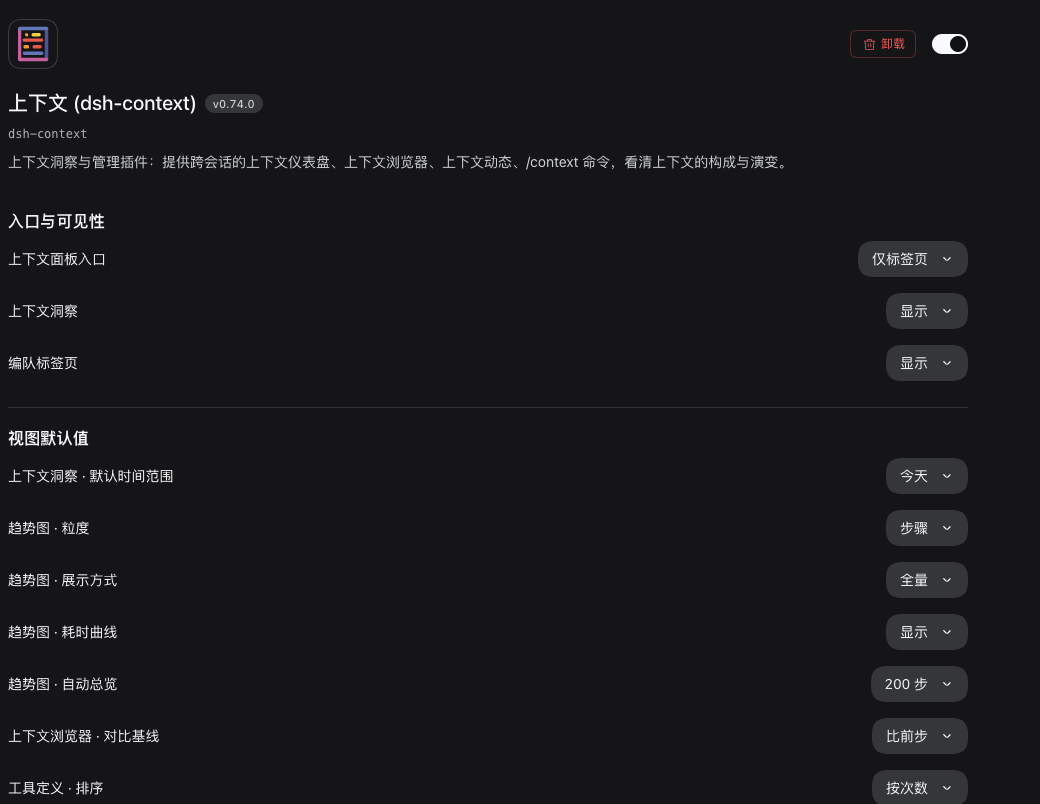
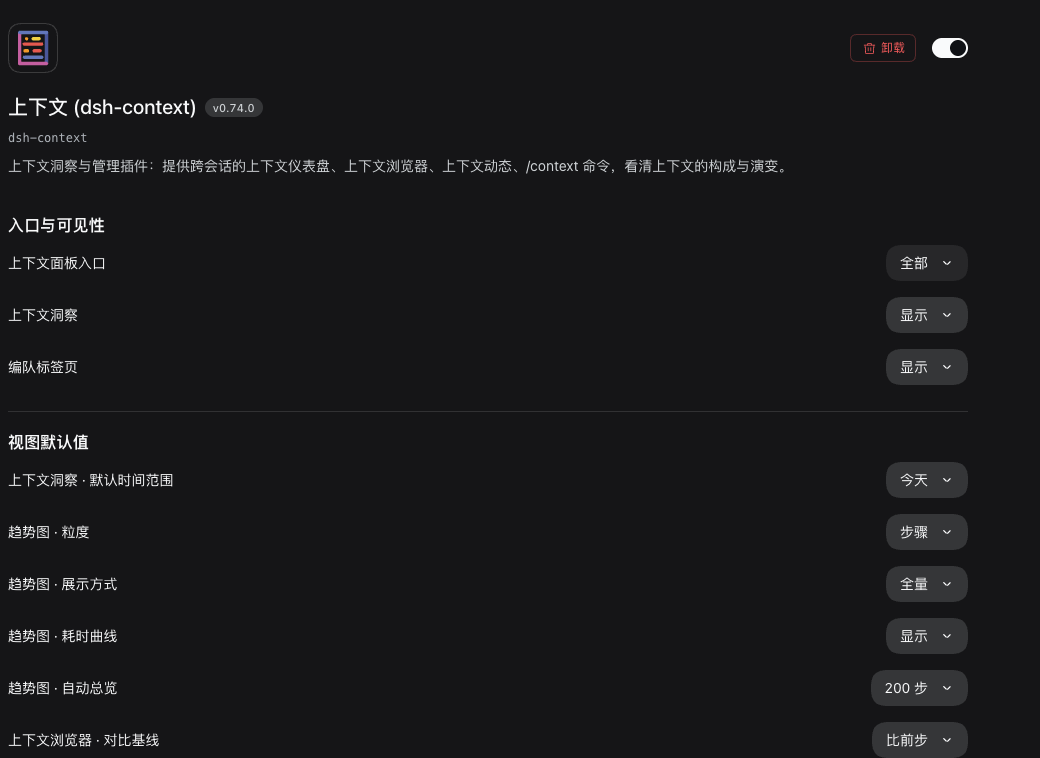
style(ui): keep the placement options at All, Tab, Sidebar
The entry row's own label already names the Context panel, so the
options stay the short surface names: All, Tab, Sidebar (全部 / 标签页 /
侧边栏).

docs/settings.png follows the reverted copy.

diff --git a/src/client/i18nZh.ts b/src/client/i18nZh.ts
@@ -91,9 +91,9 @@ export const DICT_ZH = {
   'settings.group.view': '视图默认值',
   'settings.group.prompt': '系统提示词',
   'settings.placement': '上下文面板入口',
-  'placement.tab': '仅标签页',
-  'placement.sidebar': '仅侧边栏',
-  'placement.all': '标签页 + 侧边栏',
+  'placement.tab': '标签页',
+  'placement.sidebar': '侧边栏',
+  'placement.all': '全部',
   'settings.insightsEntry': '上下文洞察',
   'settings.fleetTab': '编队标签页',
   'showHide.show': '显示',

diff --git a/src/client/i18nEn.ts b/src/client/i18nEn.ts
@@ -94,9 +94,9 @@ export const DICT_EN = {
   'settings.group.view': 'View Defaults',
   'settings.group.prompt': 'System Prompt',
   'settings.placement': 'Context panel entry',
-  'placement.tab': 'Tab only',
-  'placement.sidebar': 'Sidebar only',
-  'placement.all': 'Tab + Sidebar',
+  'placement.tab': 'Tab',
+  'placement.sidebar': 'Sidebar',
+  'placement.all': 'All',
   'settings.insightsEntry': 'Context Insights',
   'settings.fleetTab': 'Fleet tab',
   'showHide.show': 'Show',
